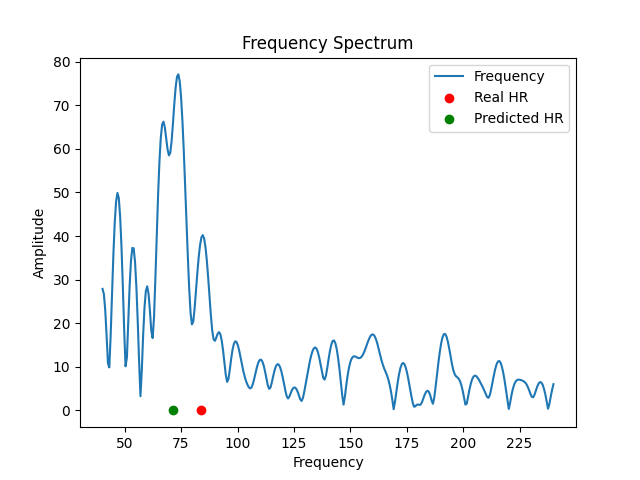
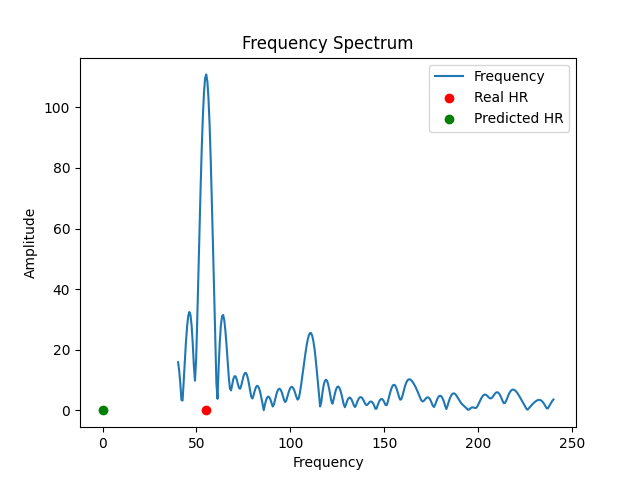
new latent model added and experiment

diff --git a/Models/extractor_latent4.py b/Models/extractor_latent4.py
@@ -1,0 +1,202 @@
+import torch
+import torch.nn as nn
+import torch.nn.functional as F
+
+def create_layer(params):
+    layer = []
+    i = 0
+    while i <= len(params) - 1:
+        if params[i] == "BN": # Batch Normalization
+            layer += [nn.BatchNorm2d(params[i + 1])]
+            i += 1
+            # print("BN added, i=",i)
+        elif params[i] == "CONV": # Convolutional Layer
+            layer += [nn.Conv2d(params[i + 1], params[i + 2], kernel_size=params[i + 3], stride=params[i + 4], padding=params[i + 5])]
+            i += 5
+            # print("CONV added, i=",i)
+        elif params[i] == "CONV_dil": # Convolutional Layer
+            layer += [nn.Conv2d(params[i + 1], params[i + 2], kernel_size=params[i + 3], stride=params[i + 4], padding=params[i + 5], dilation=params[i + 6])]
+            i += 6
+            # print("CONV added, i=",i)
+        elif params[i] == "CONV_trans": # Transposed convolutional Layer
+            layer += [nn.ConvTranspose2d(params[i + 1], params[i + 2], kernel_size=params[i + 3], stride=params[i + 4], padding=params[i + 5], output_padding=params[i + 6])]
+            i += 6
+        elif params[i] == "MP": # Max Pooling
+            layer += [nn.MaxPool2d(kernel_size=params[i + 1], stride=params[i + 2])]
+            i += 2
+            # print("MP added, i=",i)
+        elif params[i] == "ELU": # Exponential Linear Unit
+            layer += [nn.ELU(params[i + 1])]
+            i += 1
+            # print("ELU added, i=",i)
+        elif params[i] == "DP2": # Dropout
+            layer += [nn.Dropout2d(params[i + 1])]
+            i += 1
+            # print("DP2 added, i=",i)
+        elif params[i] == "DP":
+            layer += [nn.Dropout(params[i + 1])]
+            i += 1
+            # print("DP added, i=",i)
+        elif params[i] == "LIN":
+            layer += [nn.Linear(params[i + 1], params[i + 2])]
+            i += 2
+            # print("LIN added, i=",i)
+        i += 1
+    
+    return nn.Sequential(*layer)
+
+
+
+class Extractor(nn.Module):
+    def __init__(self):
+        super(Extractor, self).__init__()
+        # convolution parameters
+        c_k_size = (15,10) # convolution kernel size
+        c_k_last_size = (12,10)
+        c_st = (1,1) # convolution stride
+        pad = (0,0) # padding
+        in_ch = 3 # input channels
+        ch = 64 # channels inside the network
+        out_ch = 1 # output channels
+
+
+        m_k_size = (15,10) # max pooling kernel size
+        m_st = (1,1) # max pooling stride
+
+        alpha_elu = 1.0 # ELU alpha
+        # 192 x 128
+        self.bn_input = nn.BatchNorm2d(in_ch)
+        self.conv1 = create_layer(["CONV", in_ch, ch, c_k_size, c_st, pad,"MP" ,m_k_size, (2,2), "BN", ch,"ELU", alpha_elu])
+        # 82 x 55
+        self.conv2 = create_layer(["CONV",ch, ch, c_k_size, c_st, pad,"MP",m_k_size, m_st, "BN", ch,"ELU", alpha_elu])
+        # 54 x 37
+        self.conv3 = create_layer(["CONV",ch, ch, c_k_size, c_st, pad,"MP",m_k_size, m_st, "BN", ch,"ELU", alpha_elu])
+        # 26 x 19
+        self.conv4 = create_layer(["CONV",ch, ch, (12,8), c_st, pad,"MP",(12,8), m_st, "BN", ch,"ELU", alpha_elu])
+        # 4 x 5
+        # make 88 x 1 vector
+        # all 12 x 1 vectors in batch concatenated to 12 x batch_size
+        # 2d convolution 
+
+        # batch_size x 12
+        self.conv5 = create_layer(["CONV_dil",ch, ch, (3,3), (1,1), (1,0), (1,1), "ELU", alpha_elu])
+        self.conv6 = create_layer(["CONV_dil",ch, ch, (3,3), (1,1), (2,0), (2,1),"ELU", alpha_elu])
+        self.conv7 = create_layer(["CONV_dil",ch, ch, (3,3), (1,1), (3,0), (3,1),"ELU", alpha_elu])
+
+        self.maxpool1 = nn.MaxPool2d(kernel_size=(3,3), stride=(2,2), padding=(0,0))
+
+        self.conv8 = create_layer(["CONV_dil",ch, ch, (3,3), (1,1), (1,0), (1,1),"ELU", alpha_elu])
+        self.conv9 = create_layer(["CONV_dil",ch, ch, (3,3), (1,1), (2,0), (2,1),"ELU", alpha_elu])
+        self.conv10 = create_layer(["CONV_dil",ch, ch, (3,3), (1,1), (3,0), (3,1),"ELU", alpha_elu])
+
+        self.maxpool2 = nn.MaxPool2d(kernel_size=(3,3), stride=(2,2), padding=(0,0))
+
+        self.conv11 = create_layer(["DP",0.1,"CONV_dil",ch, ch, (3,3), (1,1), (1,0), (1,1),"ELU", alpha_elu])
+        self.conv12 = create_layer(["DP",0.1,"CONV_dil",ch, ch, (3,3), (1,1), (2,0), (2,1),"ELU", alpha_elu])
+        self.conv13 = create_layer(["DP",0.1,"CONV_dil",ch, ch, (3,3), (1,1), (3,0), (3,1),"ELU", alpha_elu])
+        self.maxpool3 = nn.MaxPool2d(kernel_size=(3,3), stride=(2,2), padding=(0,0))
+
+        self.conv_trans1 = create_layer(["CONV_trans",ch, ch, (4,1), (2,1), (0,0), (0,0), "ELU", alpha_elu])
+        self.conv14 = create_layer(["CONV",ch, ch, (3,6), (1,2), (1,0), "ELU", alpha_elu])
+
+        self.conv_trans2 = create_layer(["CONV_trans",ch, ch, (4,1), (2,1), (0,0), (0,0), "ELU", alpha_elu])
+        self.conv15 = create_layer(["CONV",ch, ch, (3,6), (1,2), (1,0), "ELU", alpha_elu])
+
+        self.conv_trans3 = create_layer(["CONV_trans",ch, ch, (4,1), (2,1), (0,0), (0,0), "ELU", alpha_elu])
+        self.conv16 = create_layer(["CONV",ch, ch, (3,5), (1,2), (1,0),"ELU", alpha_elu])
+
+        self.maxpool4 = nn.MaxPool2d(kernel_size=(3,3), stride=(1,1), padding=(1,0))
+        # self.conv17 = create_layer(["CONV",ch, ch, (3,3), (1,1), (1,0), "ELU", alpha_elu])
+
+        self.conv_last = create_layer(["CONV",ch, out_ch, 1, 1, 0])
+
+
+
+
+        self.init_weights()
+
+
+    def forward(self, x):
+        # normalization to [-1, 1]
+        # x = x / 255 * 2 - 1
+        x = self.bn_input(x)
+        x = self.conv1(F.dropout2d(x,p = 0.01, training=self.training))
+        x = self.conv2(F.dropout(x,p = 0.01, training=self.training))
+        x = self.conv3(F.dropout(x,p = 0.01, training=self.training))
+        print("after conv3:",x.shape)
+        x = self.conv4(F.dropout2d(x,p = 0.01, training=self.training))
+        print("after conv4:",x.shape)
+        x = torch.flatten(x, start_dim=2)
+        x = x.permute(1,0,2)
+        x = torch.unsqueeze(x, 0)
+        print("after flatten and dimension unsqueeze:",x.shape)
+        x1 = self.conv5(F.dropout(x,p = 0.01, training=self.training))
+        print("after conv5:",x1.shape)
+        x2 = self.conv6(F.dropout(x,p = 0.01, training=self.training))
+        print("after conv6:",x2.shape)
+        x3 = self.conv7(F.dropout(x,p = 0.01, training=self.training))
+        print("after conv7:",x3.shape)
+        x = torch.cat((x1,x2,x3),3)
+        print("after conv5,6,7 cat:",x.shape)
+        x = self.maxpool1(x)
+        print("after maxpool1:",x.shape)
+
+        x1 = self.conv8(F.dropout(x,p = 0.01, training=self.training))
+        print("after conv8:",x1.shape)
+        x2 = self.conv9(F.dropout(x,p = 0.01, training=self.training))
+        print("after conv9:",x2.shape)
+        x3 = self.conv10(F.dropout(x,p = 0.01, training=self.training))
+        print("after conv10:",x3.shape)
+        x = torch.cat((x1,x2,x3),3)
+        print("after conv8,9,10 cat:",x.shape)
+        x = self.maxpool2(x)
+        print("after maxpool2:",x.shape)
+
+        x1 = self.conv11(F.dropout(x,p = 0.01, training=self.training))
+        print("after conv11:",x1.shape)
+        x2 = self.conv12(F.dropout(x,p = 0.01, training=self.training))
+        print("after conv12:",x2.shape)
+        x3 = self.conv13(F.dropout(x,p = 0.01, training=self.training))
+        print("after conv13:",x3.shape)
+        x = torch.cat((x1,x2,x3),3)
+        print("after conv11,12,13 cat:",x.shape)
+        x = self.maxpool3(x)
+        print("after maxpool3:",x.shape)
+
+        x = self.conv_trans1(F.dropout(x,p = 0.1, training=self.training))
+        print("after conv_trans1:",x.shape)
+        x = self.conv14(F.dropout(x,p = 0.1, training=self.training))
+        print("after conv14:",x.shape)
+
+        x = self.conv_trans2(F.dropout(x,p = 0.2, training=self.training))
+        print("after conv_trans2:",x.shape)
+        x = self.conv15(F.dropout(x,p = 0.2, training=self.training))
+        print("after conv15:",x.shape)
+
+        x = self.conv_trans3(F.dropout(x,p = 0.2, training=self.training))
+        print("after conv_trans3:",x.shape)
+        x = self.conv16(F.dropout(x,p = 0.3, training=self.training))
+        print("after conv16:",x.shape)
+        x = self.maxpool4(x)
+        # x = self.conv17(F.dropout(x,p = 0.3, training=self.training))
+        print("after maxpool4:",x.shape)
+
+
+        x = self.conv_last(F.dropout(x,p = 0.5, training=self.training))
+        print("after conv_last:",x.shape)
+        return x
+
+    def init_weights(self):
+        for layer in self.modules():
+            if type(layer) == nn.Conv2d:
+                nn.init.xavier_normal_(layer.weight, gain=1)
+                nn.init.zeros_(layer.bias)
+            if type(layer) == nn.BatchNorm2d:
+                nn.init.normal_(layer.weight, 0, 0.1)
+                nn.init.zeros_(layer.bias)
+            if type(layer) == nn.Linear:
+                nn.init.xavier_normal_(layer.weight, gain=1)
+                nn.init.zeros_(layer.bias)
+            if type(layer) == nn.ConvTranspose2d:
+                nn.init.xavier_normal_(layer.weight, gain=1)
+                nn.init.zeros_(layer.bias)

diff --git a/estimator_eval_highpass.py b/estimator_eval_highpass.py
@@ -11,6 +11,22 @@ import matplotlib.pyplot as plt
 import time
 plot_counter = 0
 
+def high_pass_filter(signal, fs, cutoff=0.667):
+    """
+    First-order high-pass filter (time domain) using NumPy.
+    signal: 1D numpy array
+    fs: Sampling frequency in Hz
+    cutoff: Cutoff frequency in Hz (e.g., 0.667 Hz for 40 bpm)
+    """
+    rc = 1 / (2 * np.pi * cutoff)
+    alpha = rc / (rc + 1/fs)
+
+    filtered = np.zeros_like(signal)
+    filtered[0] = signal[0]
+    for i in range(1, len(signal)):
+        filtered[i] = alpha * (filtered[i-1] + signal[i] - signal[i-1])
+    return filtered
+
 def get_statistics(data_loader):
     '''Calculate the average deviation between average of the data in loader and the real data in loader.'''
     statistics = {}
@@ -85,16 +101,20 @@ class EstimatorEval:
                 hr_data = data_loader.get_hr()
 
                 extractor_output = self.infer_extractor(sequence)
+                # normalize the output to [-1, 1]
+                extractor_output = extractor_output - np.mean(extractor_output)
+                extractor_output = extractor_output / (np.max(extractor_output) - np.min(extractor_output))
+                extractor_output = high_pass_filter(extractor_output, 30, cutoff=0.6)
                 # print("extractor_output shape:",extractor_output.shape)
                 # print("extractor_output:",extractor_output)
-                # prediction = self.infer(extractor_output) * 60
-                prediction = get_max_freq_padded(extractor_output, 30, hr_data, 0, pad_factor=10) * 60
+                prediction = self.infer(extractor_output) * 60
+                # prediction = get_max_freq_padded(extractor_output, 30, hr_data, 0, pad_factor=10) * 60
                 epoch_done = not data_loader.next_sequence()
                 ground_truth.append(hr_data)
                 predicted.append(prediction)
                 progress = data_loader.get_progress()
                 print(f"Progress: {progress[0]}/{progress[1]}", end="\r")
-                # get_max_freq_padded(extractor_output, 30, hr_data, prediction, pad_factor=10)
+                get_max_freq_padded(extractor_output, 30, hr_data, prediction, pad_factor=10)
 
         return ground_truth, predicted
     

diff --git a/hr_predictor.py b/hr_predictor.py
@@ -185,9 +185,9 @@ class HRPredictor:
 if __name__ == '__main__':
     predictor = HRPredictor()
     predictor.set_device(torch.device('cuda'))
-    extractor_weights_path = os.path.join("output","weights","pure_decreasing","best_extractor_weights.pth")
+    extractor_weights_path = os.path.join("output","pure_exp22","best_extractor_weights.pth")
     predictor.load_extractor_weights(extractor_weights_path)
-    estimator_weights_path = os.path.join("output","estimator_pure_weights_150","best_model.pth")
+    estimator_weights_path = os.path.join("output","pure_exp22_best","best_estimator_weights.pth")
     predictor.load_estimator_weights(estimator_weights_path)
     video_path = "test_videos/me_150-120bom_1minut.mp4"
     predictions = predictor.process_video(video_path, 300)

diff --git a/train_extractor.py b/train_extractor.py
@@ -10,7 +10,7 @@ from extractor_trainer import ExtractorTrainer
 # CONFIG_PATH = os.path.join("config_files", "synthetic", "config_extractor_synthetic.yaml")
 # CONFIG_PATH = os.path.join("config_files", "pure", "config_extractor_pure_halmos_exp24.yaml")
 # CONFIG_PATH = os.path.join("config_files", "pure_local", "config_extractor_exp22_better.yaml")
-CONFIG_PATH = os.path.join("config_files", "latent_model_test", "config_extractor_pure_halmos_latent3_exp5.yaml")
+CONFIG_PATH = os.path.join("config_files", "latent_model_test", "config_extractor_pure_halmos_latent4_exp1.yaml")
 
 
 if __name__ == "__main__":

diff --git a/train_estimator.py b/train_estimator.py
@@ -11,7 +11,7 @@ from Datasets_handlers.Estimator.dataset_loader import EstimatorDatasetLoader
 from estimator_trainer import EstimatorTrainer
 
 # CONFIG_PATH = os.path.join("config_files", "synthetic", "config_estimator_synthetic.yaml")
-CONFIG_PATH = os.path.join("config_files", "pure_local", "config_estimator_exp22.yaml")
+CONFIG_PATH = os.path.join("config_files", "pure_local", "config_estimator_exp24.yaml")
 
 
 

diff --git a/extractor_trainer.py b/extractor_trainer.py
@@ -1,7 +1,7 @@
 import torch
 # from Models.extractor_model_my import Extractor
 # from Models.extractor_latent import Extractor
-from Models.extractor_latent3 import Extractor
+from Models.extractor_latent4 import Extractor
 from Loss.extractor_loss import ExtractorLoss
 from Datasets_handlers.Extractor.dataset_loader import DatasetLoader
 import matplotlib.pyplot as plt

diff --git a/Datasets_handlers/Estimator/dataset_creator.py b/Datasets_handlers/Estimator/dataset_creator.py
@@ -1,5 +1,5 @@
-# from Models.extractor_model import Extractor
-from Models.extractor_model_my import Extractor
+from Models.extractor_model import Extractor
+# from Models.extractor_model_my import Extractor
 # from Models.extractor_latent3 import Extractor
 from Datasets_handlers.Extractor.dataset_loader import DatasetLoader
 import torch
